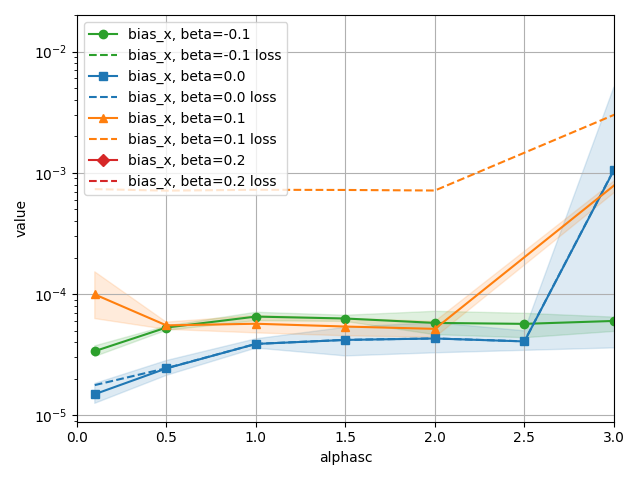
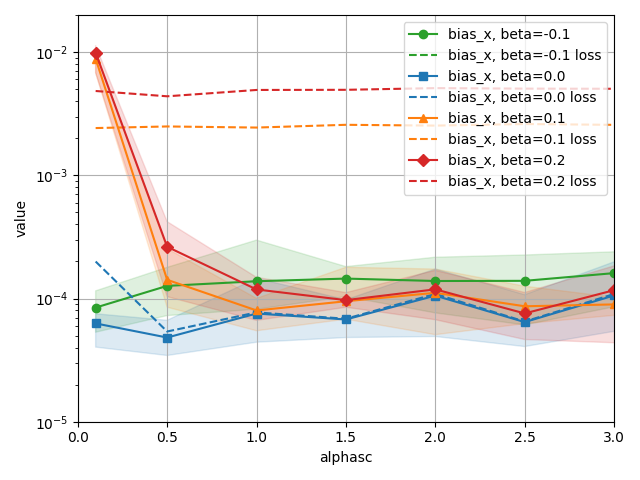
modified:   scripts/plot/plot_core.py

diff --git a/scripts/plot/plot_core.py b/scripts/plot/plot_core.py
@@ -266,7 +266,7 @@ def plot_cost(
 
     ax.set_yscale("log")
 #    ax.set_ylim(1.0e-5, 0.02)
-    ax.set_ylim(top=0.02)
+    ax.set_ylim(1.0e-5, 0.02)
     ax.set_xlim(0.0, 3.0)
 
     ax.grid(True)
